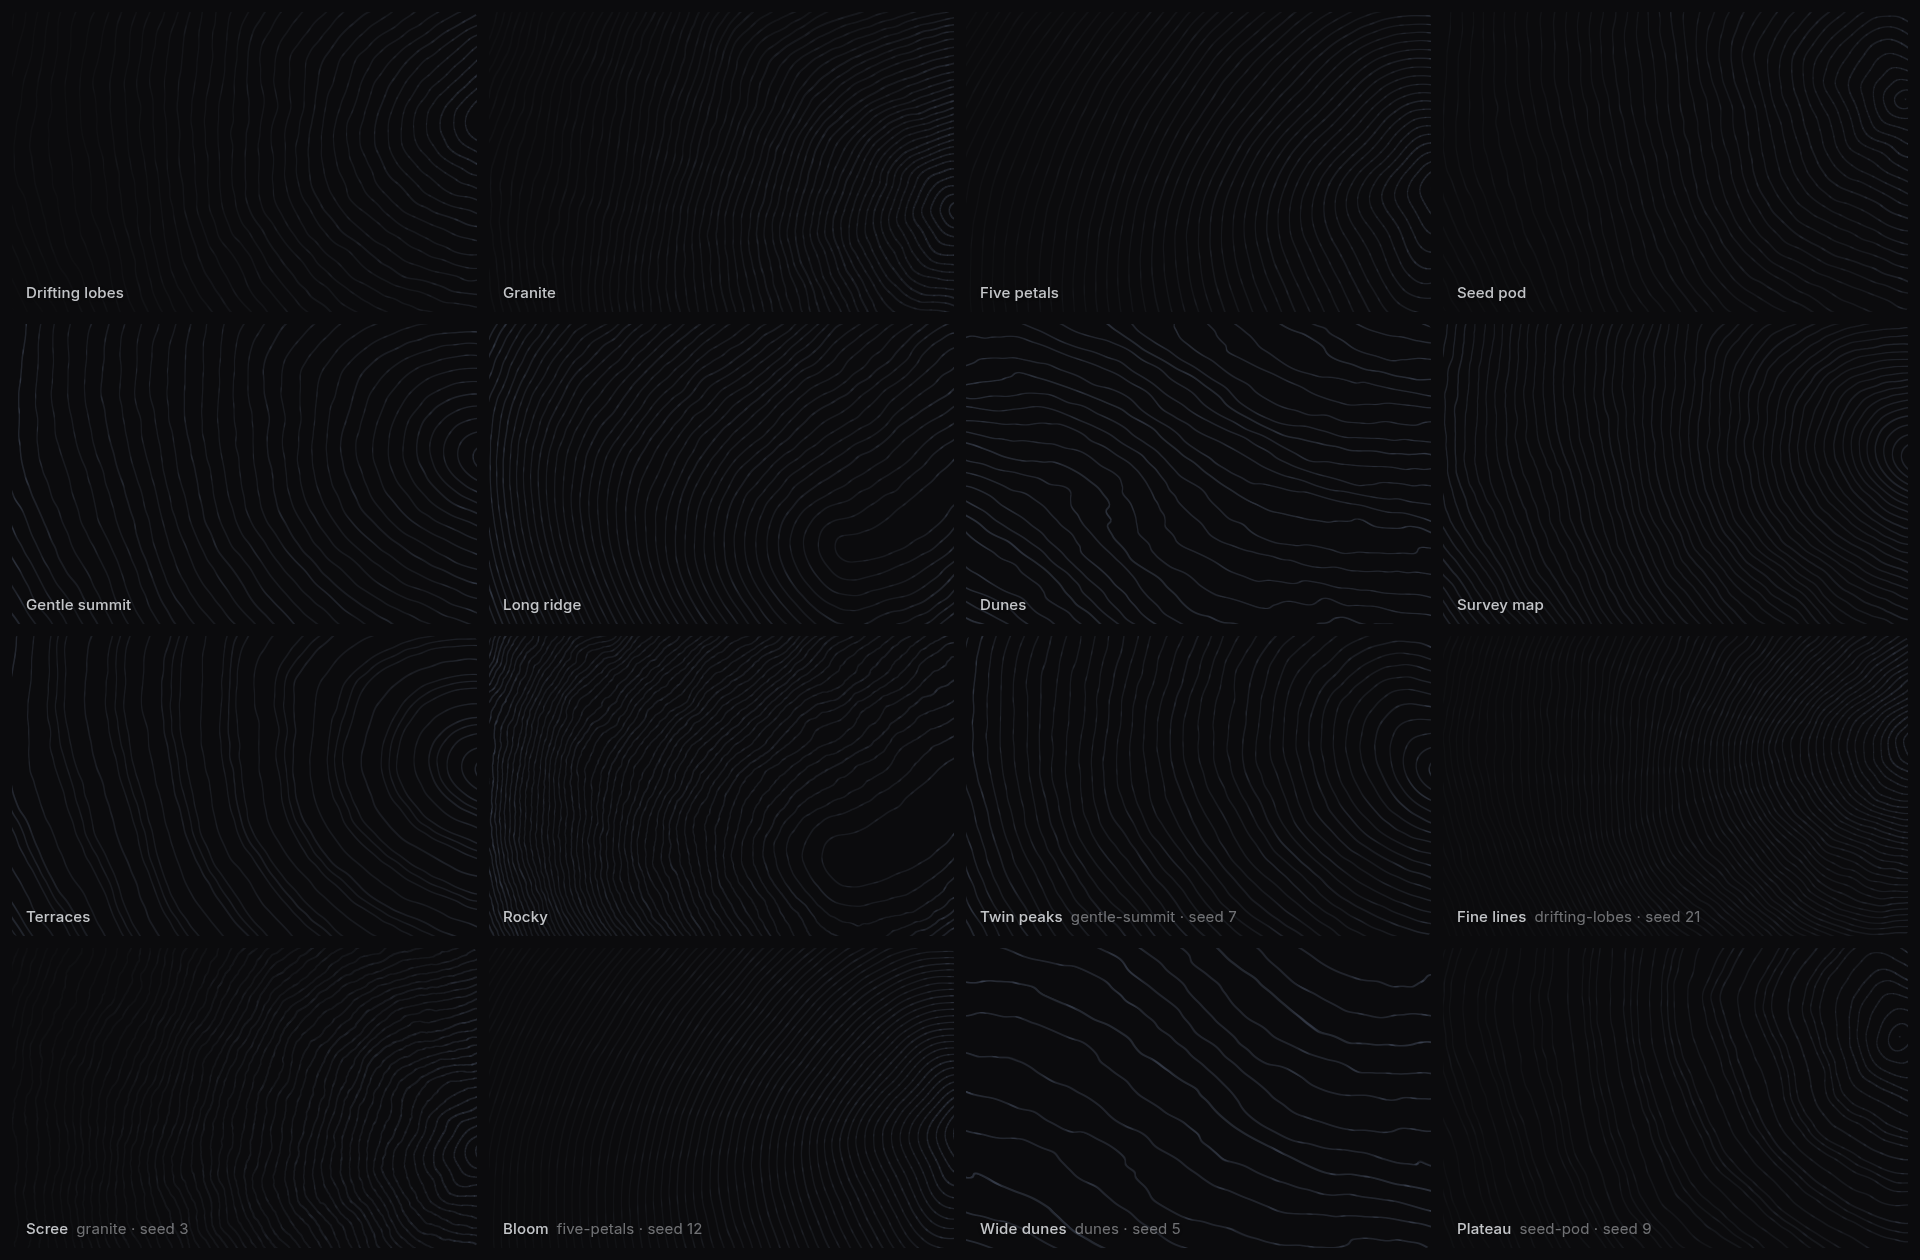
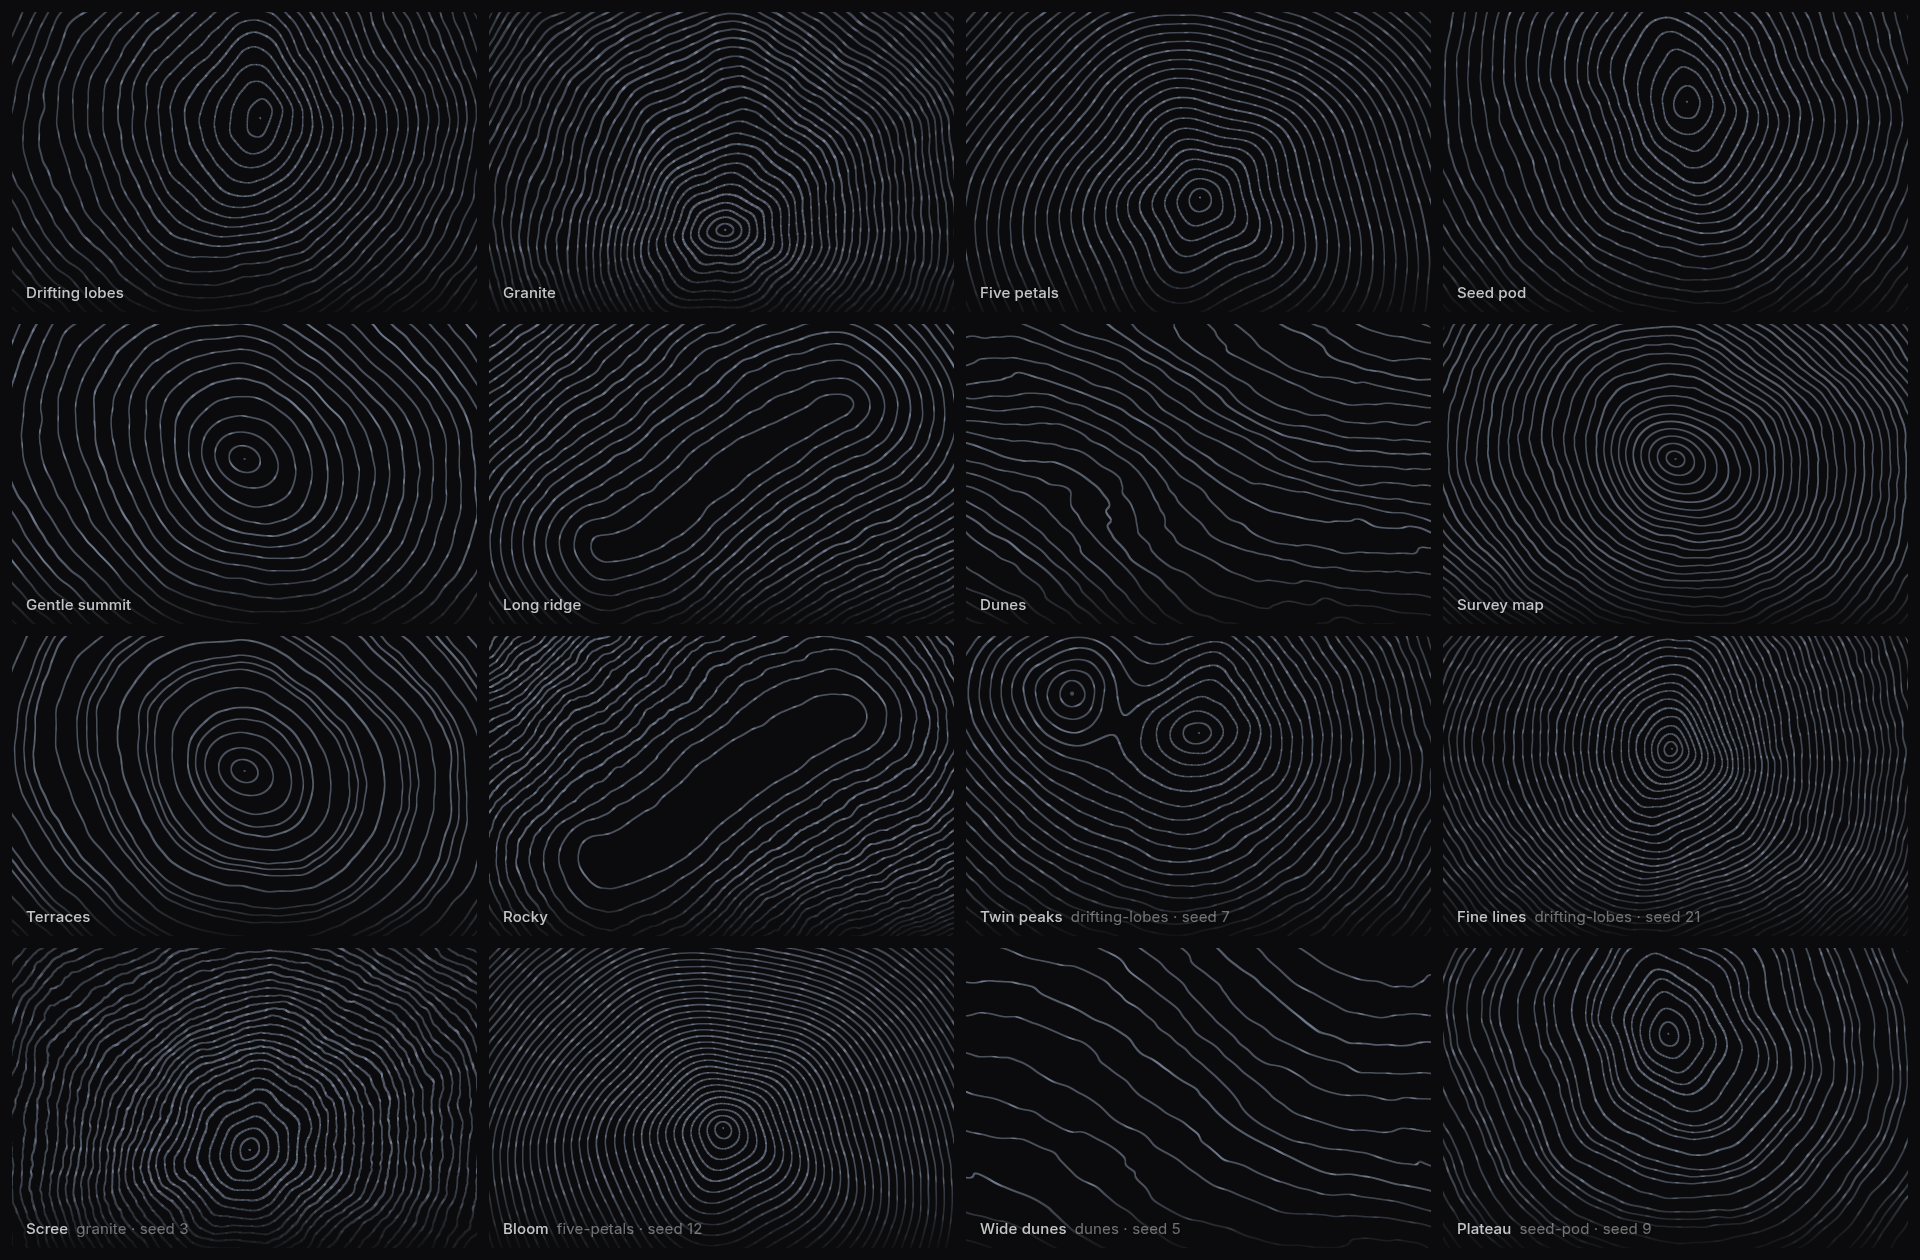
make the styles grid tiles brighter and centred
- centre the summit and turn off the centre fade on every tile so each shape shows
- raise line opacity, width and ink brightness so the lines read at readme width
- render twin peaks from drifting lobes so both summits show
- add a dark gradient behind the captions and update the readme table

Changed region(s): [[0.0, 0.0, 1.0, 0.9905], [0.6562, 0.8976, 0.6875, 0.9286]]

diff --git a/scripts/styles-grid.html b/scripts/styles-grid.html
@@ -6,7 +6,9 @@
   #grid { display: grid; grid-template-columns: repeat(4, 1fr); gap: 12px; padding: 12px; width: 1896px; }
   figure { margin: 0; position: relative; border-radius: 6px; overflow: hidden; }
   figure img { display: block; width: 100%; }
-  figcaption { position: absolute; left: 14px; bottom: 12px; font: 500 15px/1 Inter, system-ui, sans-serif;
+  figure::after { content: ''; position: absolute; inset: auto 0 0 0; height: 64px;
+    background: linear-gradient(transparent, rgba(11, 11, 13, 0.85)); }
+  figcaption { z-index: 1; position: absolute; left: 14px; bottom: 12px; font: 500 15px/1 Inter, system-ui, sans-serif;
     color: rgba(236, 238, 242, 0.82); letter-spacing: 0.01em; text-shadow: 0 1px 6px rgba(0, 0, 0, 0.7); }
   figcaption span { color: rgba(236, 238, 242, 0.45); font-weight: 400; margin-left: 8px; }
 </style>
@@ -17,7 +19,7 @@
   window.renderGrid = async (tiles, size) => {
     const host = document.getElementById('host');
     for (const tile of tiles) {
-      const t = lib.createTopography(host, { ...tile.settings, theme: { mode: 'dark' } });
+      const t = lib.createTopography(host, tile.settings);
       const blob = await t.snapshot({ frame: 4000, width: size.w, height: size.h });
       t.destroy();
       const fig = document.createElement('figure');

diff --git a/README.md b/README.md
@@ -69,14 +69,14 @@ The image shows all of them in dark mode, frozen at 4 seconds. The first ten til
 
 | Tile | Settings |
 | --- | --- |
-| Twin peaks | `gentle-summit`, seed 7, peaks 2, spread 0.7 |
-| Fine lines | `drifting-lobes`, seed 21, line count 56 |
+| Twin peaks | `drifting-lobes`, seed 7, peaks 2, spread 1 |
+| Fine lines | `drifting-lobes`, seed 21, line count 48 |
 | Scree | `granite`, seed 3, roughness 0.6 |
 | Bloom | `five-petals`, seed 12, line count 42, variant 0.9 |
 | Wide dunes | `dunes`, seed 5, line count 16, line width 0.4 |
 | Plateau | `seed-pod`, seed 9, terracing 0.6 |
 
-Every tile uses line opacity 0.9 so the lines show at this size; the default is 0.4. `node scripts/styles-grid.mjs` renders the image again.
+So the shapes read at this size, every tile also centres the summit (`layout.anchor` 1), turns off the centre fade (`layout.fade` 0) and uses brighter, slightly thicker lines: line opacity 0.85, line width 0.4 and ink `#9fb0cc`. `node scripts/styles-grid.mjs` renders the image again.
 
 ## The generator
 
